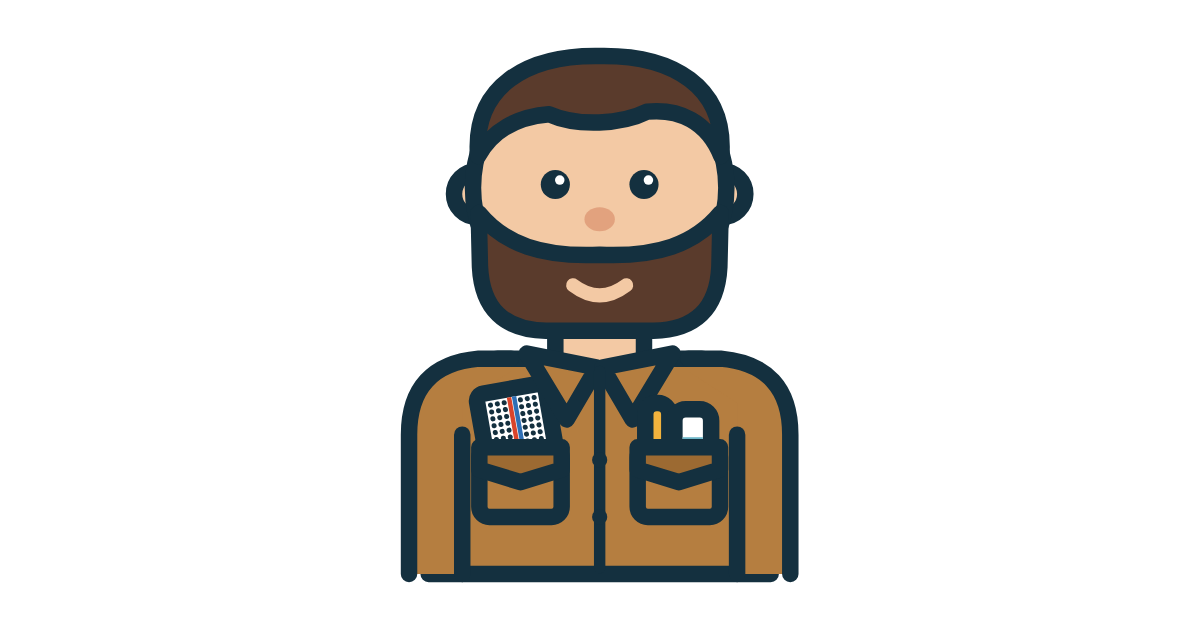
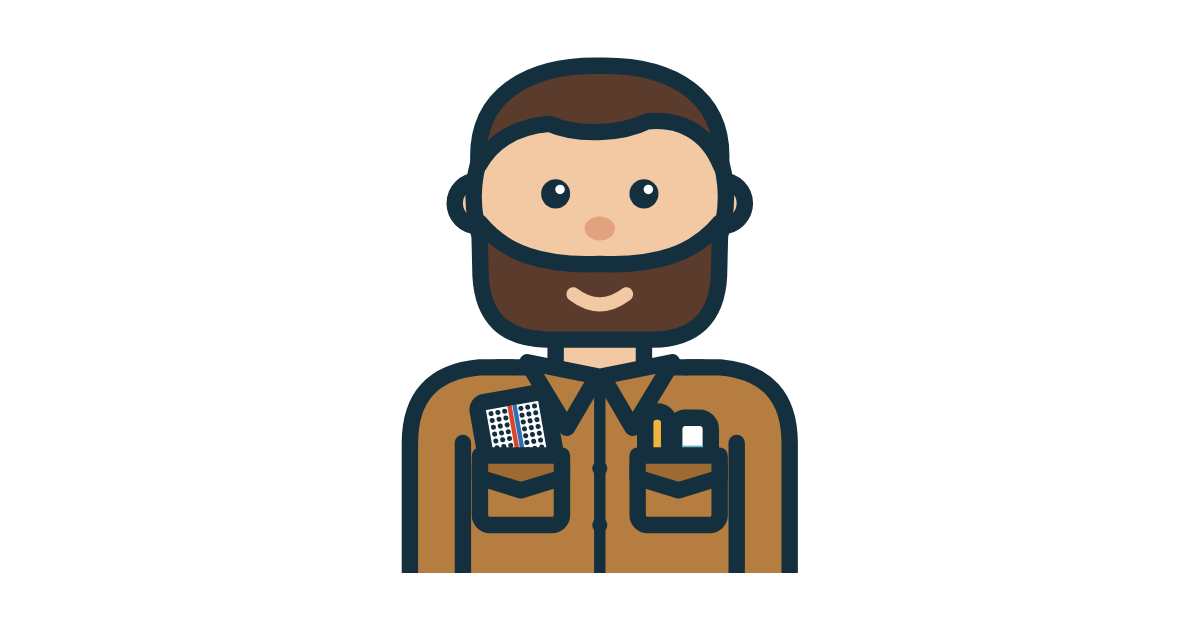
Link preview: torso and sleeves end on one clean straight edge
Claude-Session: https://claude.ai/code/session_016BwnKwMceey9joAJi8jCUY

Changed region(s): [[0.3392, 0.0603, 0.6783, 0.9349], [0.5242, 0.2714, 0.555, 0.3317]]

diff --git a/CLAUDE.md b/CLAUDE.md
@@ -54,7 +54,7 @@ one.
 - `assets/images/breadboard-bay-sign.svg`: the logo, two wooden plank signs reading
   BREADBOARD / BAY (not shown anywhere on the site at the moment).
 - `assets/images/share.png`: the link preview picture (1200 × 630, the character alone on a see-through
-  background, his sleeves ending level with the bottom of his shirt, open like on the site), set for every page in `_config.yml`.
+  background, cut off on one straight line across his shirt and sleeves, like the photo frame does), set for every page in `_config.yml`.
   Rebuild it from `scientist.svg` if the character changes.
 - Behind the character in the home card's photo: one solid color, the bottom of the ocean gradient
   (`--sea-bottom`: `#9CC3CF` light, `#2C5062` dark).
